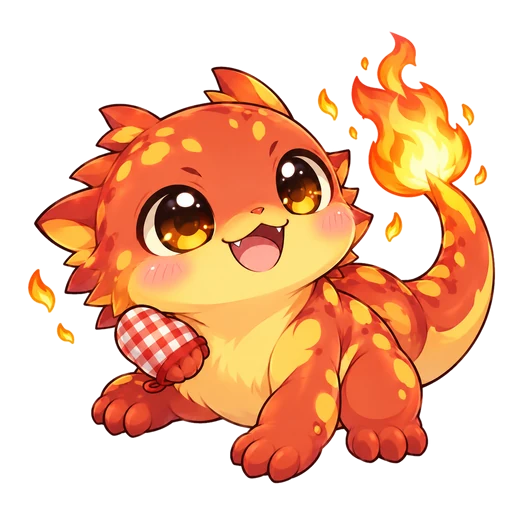
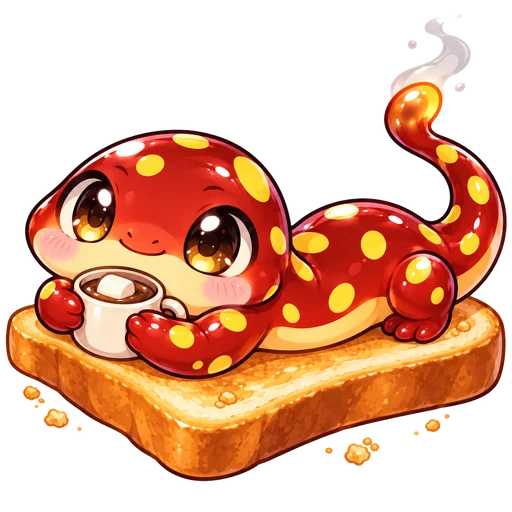
Neue Monster-Reihen Aali und Raupsi, neues Kokeli-Bild
- Wasser: Aali → Siphonix, Entwicklung bei Lv 20.
- Luft: Raupsi → Kokonella → Papillora, Entwicklung bei Lv 10 und 25.
- Pedia-Texte für beide Reihen, Pedia hat jetzt 35 Einträge (#31–35).
- Kokeli hat ein neues Bild, das sich klar von Funki unterscheidet.
- Was ist neu: Eintrag 4.

Claude-Session: https://claude.ai/code/session_01GdoUxeYzFR2Dp5VJa2UG9o

diff --git a/src/pedia.ts b/src/pedia.ts
@@ -107,6 +107,24 @@ export const PEDIA: Record<string, Entry> = {
     dislikes: 'vergessene Topfpflanzen, Laub im Gully',
     legend: 'Arborius war einmal ein winziges Samsi in einem Joghurtbecher auf einer Fensterbank. Man sagt, in seinen Ringen steht jede Aufgabe, die je in diesem Haus erledigt wurde, und wer ihm zuhört, hört das Rascheln von hundert Besen.',
   },
+  '11': {
+    sizes: ['0,4 m', '3,2 m'],
+    weights: ['0,6 kg', '55 kg'],
+    room: 'Bad',
+    text: 'Aali wohnt im Abfluss der Dusche und frisst alles, was dort nicht hingehört. Wenn das Wasser gurgelnd abläuft, ist das Aali, das sich bedankt.',
+    likes: 'blanke Armaturen, Haare im Sieb (zum Frühstück)',
+    dislikes: 'Rohrreiniger aus der Flasche, Kalkränder',
+    legend: 'Siphonix soll durch alle Rohre des Hauses gleichzeitig schwimmen können. Wer nachts ein leises Plätschern im Waschbecken hört, weiß: Hier verstopft so schnell nichts mehr.',
+  },
+  '12': {
+    sizes: ['0,2 m', '0,5 m', '1,6 m'],
+    weights: ['0,3 kg', '2 kg', '4 kg'],
+    room: 'Waschküche',
+    text: 'Raupsi wohnt im Wäschekorb und knabbert nur an Fusseln. Es riecht immer nach frischem Weichspüler, und wer eine Socke ohne Partner findet, findet meistens auch Raupsi.',
+    likes: 'warme Wäsche aus dem Trockner, Wäscheklammern',
+    dislikes: 'volle Wäschekörbe, die tagelang stehen, Knitterfalten',
+    legend: 'Papillora fliegt nur an Tagen, an denen die Wäsche draußen hängt. Wo ihre Flügel ein Laken streifen, ist es danach glatt wie gebügelt.',
+  },
 }
 
 // Pedia-Reihenfolge nach Nummer, nicht nach Element wie in der Monsterwahl.

diff --git a/src/game.ts b/src/game.ts
@@ -40,12 +40,14 @@ const monster = (id: string, element: Element, move: string, names: string[], sl
 export const MONSTERS: Monster[] = [
   monster('2', 'wasser', 'Gezeitenstoß', ['Plitsch', 'Platschkoi', 'Tsunadra'], ['plitsch', 'platschkoi', 'tsunadra']),
   monster('4', 'wasser', 'Perlschaum-Wirbel', ['Schaumi', 'Blubbro', 'Spumagon'], ['schaumi', 'blubbro', 'spumagon']),
+  monster('11', 'wasser', 'Rohrfrei-Strudel', ['Aali', 'Siphonix'], ['aali', 'siphonix'], [20]),
   monster('5', 'feuer', 'Glut-Schrubb', ['Funki', 'Glutfuchs', 'Infernyx'], ['funki', 'glutfuchs', 'infernyx']),
   monster('9', 'feuer', 'Brutzel-Blitz', ['Kokeli', 'Salamandor'], ['kokeli', 'salamandor'], [15]),
   monster('6', 'natur', 'Moos-Sammler', ['Krümel', 'Kompost\u00ADkröte', 'Gaiamoos'], ['kruemel', 'kompostkroete', 'gaiamoos']),
   monster('10', 'natur', 'Gießkannen-Segen', ['Samsi', 'Sprössli', 'Blattwart', 'Arborius'], ['samsi', 'sproessli', 'blattwart', 'arborius'], [10, 20, 30]),
   monster('3', 'luft', 'Taifun-Sog', ['Fluffi', 'Wirbel\u00ADwusel', 'Taifunox'], ['fluffi', 'wirbelwusel', 'taifunox']),
   monster('7', 'luft', 'Kuschel-Zyklon', ['Flausch', 'Woll\u00ADwächter', 'Kaschmira'], ['flausch', 'wollwaechter', 'kaschmira']),
+  monster('12', 'luft', 'Frischluft-Flattern', ['Raupsi', 'Kokonella', 'Papillora'], ['raupsi', 'kokonella', 'papillora']),
   monster('1', 'licht', 'Mondglanz-Pfote', ['Miezo', 'Katzelot', 'Sphinxar'], ['miezo', 'katzelot', 'sphinxar']),
   monster('8', 'licht', 'Prisma-Ordnung', ['Funkel', 'Prismabot', 'Kristallos'], ['funkel', 'prismabot', 'kristallos']),
 ]

diff --git a/src/pedia.test.ts b/src/pedia.test.ts
@@ -8,7 +8,7 @@ describe('Putzy-Pedia', () => {
     expect(isDiscovered([], '5', 0)).toBe(true)
     expect(isDiscovered(seen, '2', 1)).toBe(true)
     expect(isDiscovered(seen, '2', 2)).toBe(false)
-    expect(discoveredCount(seen)).toBe(11)
+    expect(discoveredCount(seen)).toBe(13)
   })
 
   it('spielt erreichte Entwicklungen nach, die diese Person noch nicht gesehen hat', () => {
@@ -19,13 +19,15 @@ describe('Putzy-Pedia', () => {
     expect(list('ulrike')).toEqual(['2:1', '2:2', '5:1'])
   })
 
-  it('zählt Reihen mit 2 und 4 Stufen fortlaufend bis 30', () => {
-    expect(DEX_TOTAL).toBe(30)
+  it('zählt Reihen mit 2 und 4 Stufen fortlaufend bis 35', () => {
+    expect(DEX_TOTAL).toBe(35)
     expect(dexNo(monsterById('8'), 2)).toBe('24')
     expect(dexNo(monsterById('9'), 0)).toBe('25')
     expect(dexNo(monsterById('9'), 1)).toBe('26')
     expect(dexNo(monsterById('10'), 0)).toBe('27')
     expect(dexNo(monsterById('10'), 3)).toBe('30')
+    expect(dexNo(monsterById('11'), 0)).toBe('31')
+    expect(dexNo(monsterById('12'), 2)).toBe('35')
   })
 
   it('spielt bei Samsi alle drei Entwicklungen nach', () => {

diff --git a/src/news.ts b/src/news.ts
@@ -6,6 +6,7 @@ export const NEWS: News[] = [
   { id: 1, title: 'Aufgaben selbst pflegen', text: 'Über das Zahnrad könnt ihr jetzt Aufgaben anlegen, ändern und löschen.' },
   { id: 2, title: 'Ständige Aufgaben', text: 'Kochen, Einkaufen, Wäsche, Spülmaschine und Garten stehen jetzt als Leiste oben unter „Heute“. Jeder von euch hakt sie einmal am Tag ab und bekommt XP wie für Aufwand S.' },
   { id: 3, title: 'Einmalige Aufgaben', text: 'Für Dinge wie Rauchmelder anbringen oder Flur streichen gibt es jetzt das Klemmbrett oben rechts. Jeder kann dort Aufgaben anlegen, und jede erledigte bringt 20 XP.' },
+  { id: 4, title: 'Neue Monster: Aali und Raupsi', text: 'Aali der Aal (Wasser) entwickelt sich auf Level 20 zu Siphonix, Raupsi die Raupe (Luft) wird über Kokonella zu Papillora. Kokeli hat außerdem ein neues Bild.' },
 ]
 
 export const LATEST_NEWS = Math.max(0, ...NEWS.map((n) => n.id))

diff --git a/src/game.test.ts b/src/game.test.ts
@@ -45,6 +45,8 @@ describe('Level', () => {
     expect(stageFor(kokeli, 30)).toBe(1)
     const samsi = monsterById('10')
     expect([9, 10, 19, 20, 29, 30].map((l) => stageFor(samsi, l))).toEqual([0, 1, 1, 2, 2, 3])
+    const aali = monsterById('11')
+    expect([19, 20, 30].map((l) => stageFor(aali, l))).toEqual([0, 1, 1])
   })
 })
 
